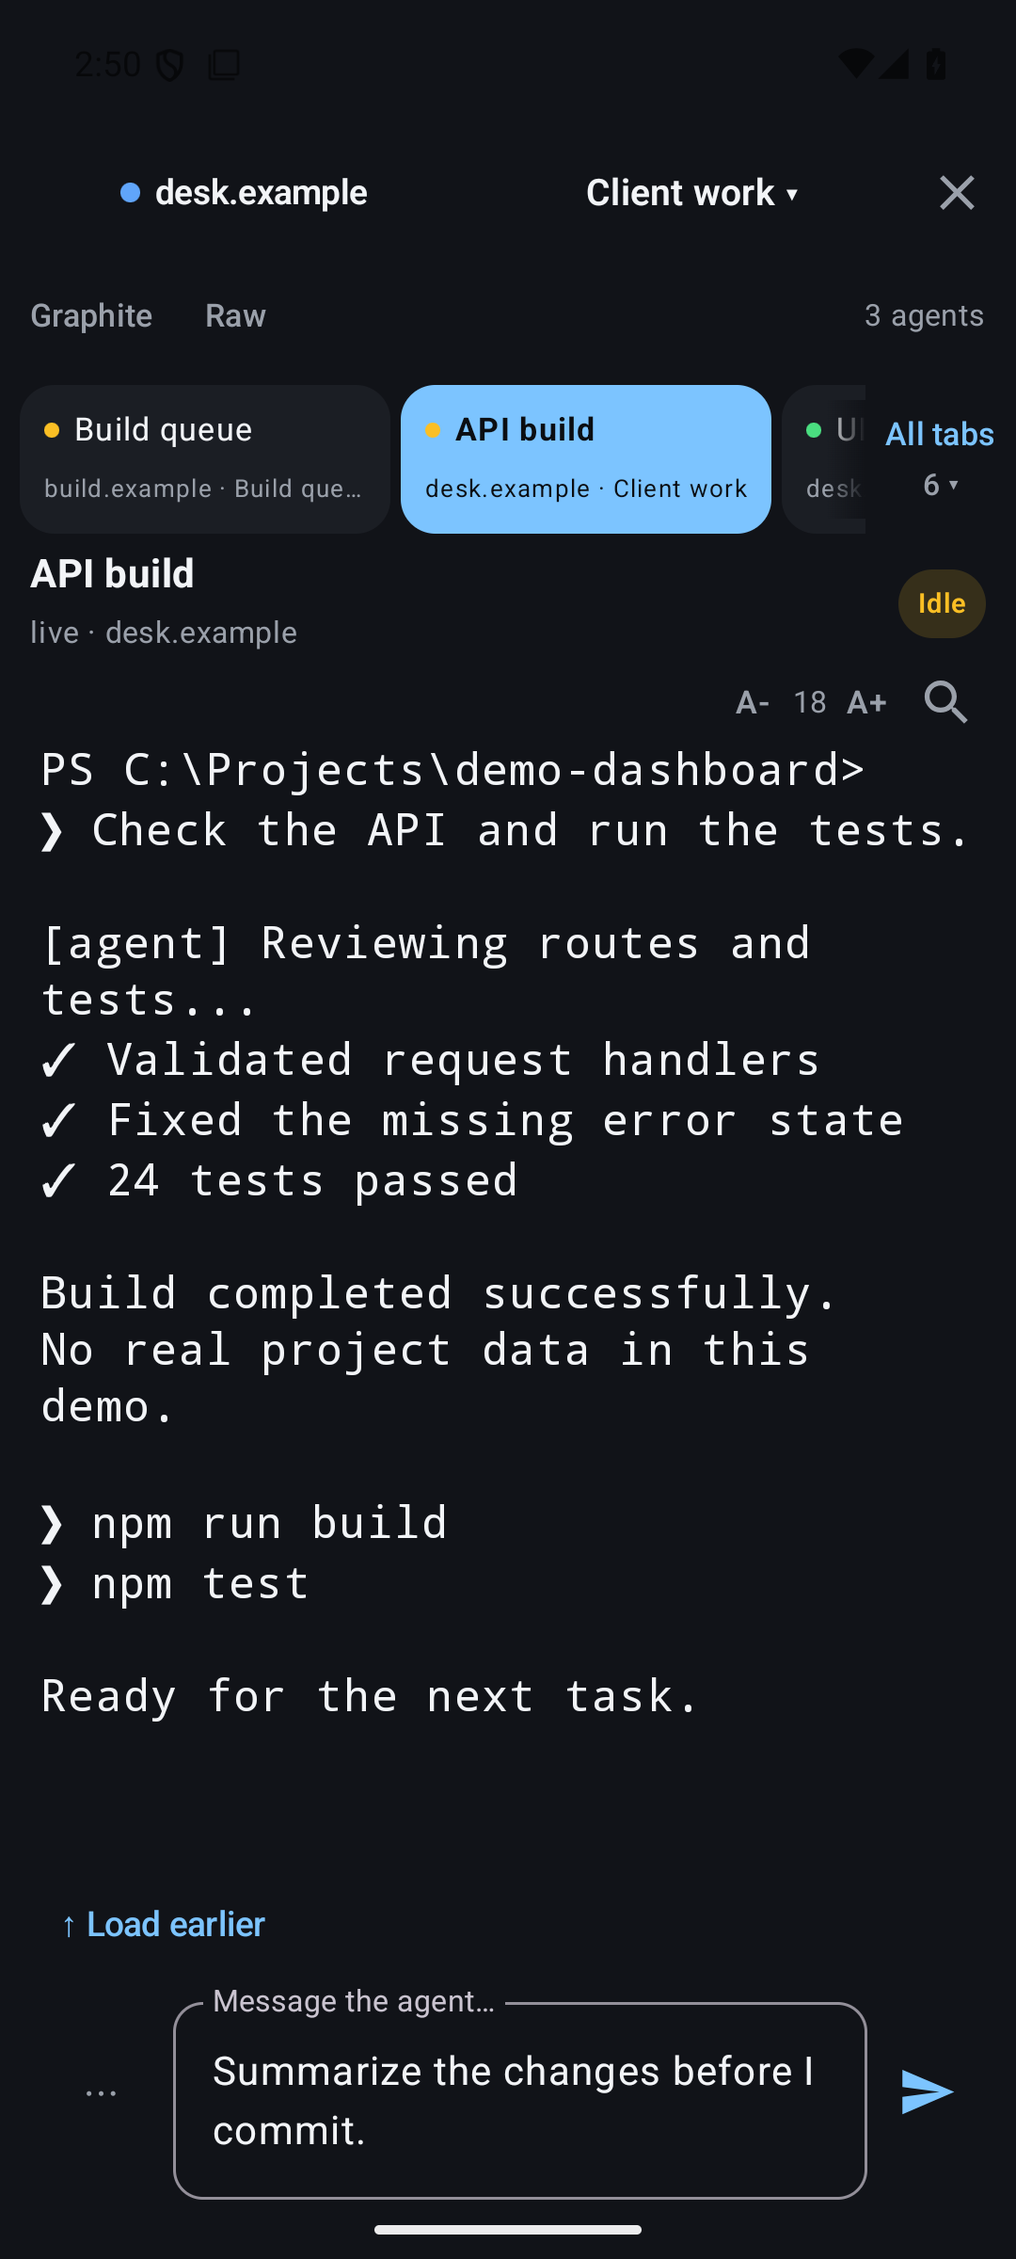
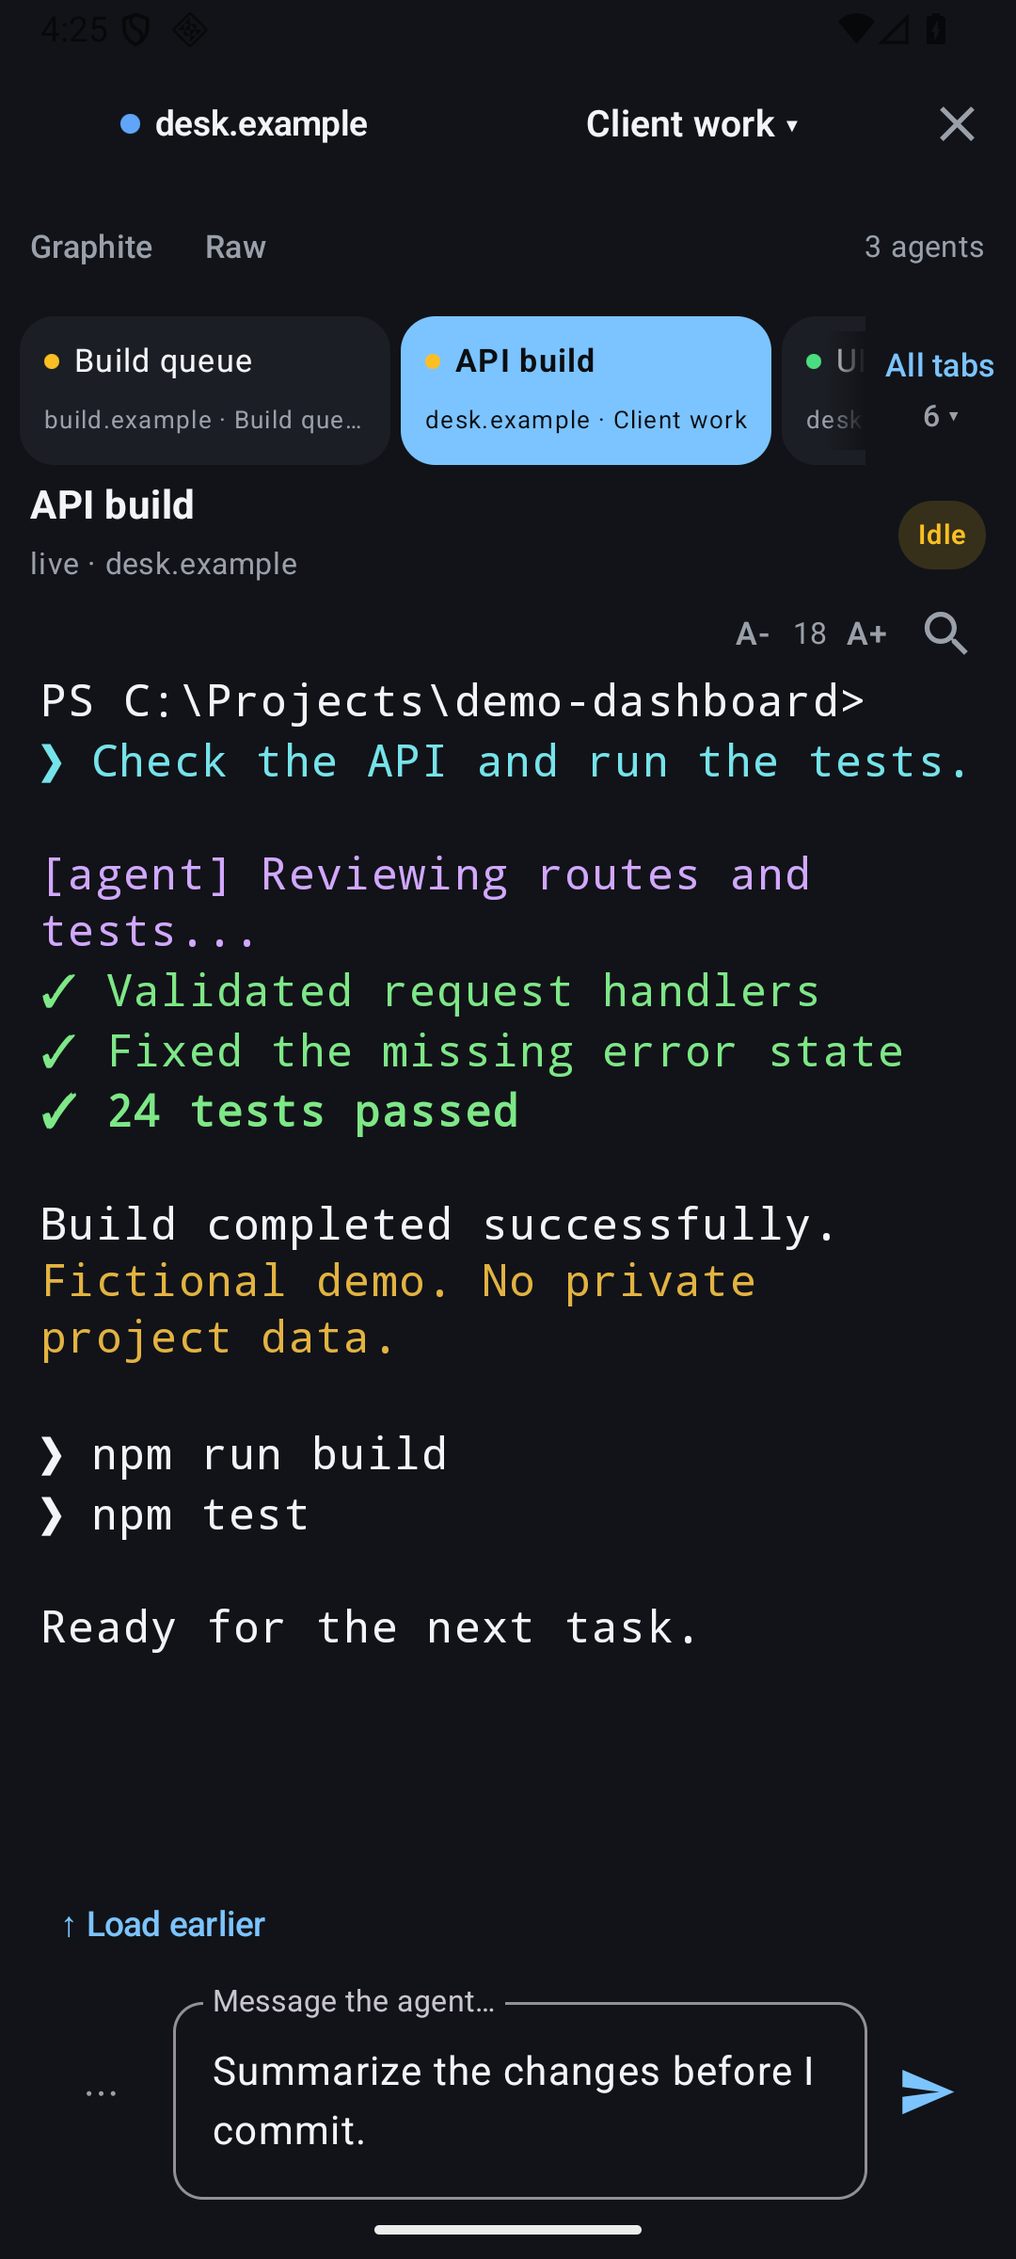
Refresh v0.2.2 README, color screenshots, and phone-width guide

diff --git a/app/src/androidTest/java/io/github/razvanmanolache/herdronthego/ScreenshotTest.kt b/app/src/androidTest/java/io/github/razvanmanolache/herdronthego/ScreenshotTest.kt
@@ -8,12 +8,17 @@ import androidx.compose.material3.MaterialTheme
 import androidx.compose.material3.Surface
 import androidx.compose.ui.Modifier
 import androidx.compose.ui.graphics.Color
+import androidx.compose.ui.test.junit4.createEmptyComposeRule
+import androidx.compose.ui.test.onNodeWithText
+import androidx.compose.ui.test.performClick
+import androidx.compose.ui.test.assertIsDisplayed
 import androidx.lifecycle.ViewModelProvider
 import androidx.test.core.app.ActivityScenario
 import androidx.test.ext.junit.runners.AndroidJUnit4
 import androidx.test.platform.app.InstrumentationRegistry
 import org.junit.Assert.assertTrue
 import org.junit.Test
+import org.junit.Rule
 import org.junit.runner.RunWith
 import java.io.File
 import java.io.FileOutputStream
@@ -23,6 +28,7 @@ import java.io.FileOutputStream
  */
 @RunWith(AndroidJUnit4::class)
 class ScreenshotTest {
+    @get:Rule val compose = createEmptyComposeRule()
     private val instrument = InstrumentationRegistry.getInstrumentation()
     private val pins = object : KnownHostsStore {
         override fun get(port: Int, host: String): String? = null
@@ -54,21 +60,21 @@ class ScreenshotTest {
                 "$host-space", panes.first().tabId, panes.first().paneId)
             srv.paneText[panes.first().paneId] = """
                 PS C:\Projects\demo-dashboard>
-                ❯ Check the API and run the tests.
+                \u001B[36m❯ Check the API and run the tests.\u001B[0m
 
-                [agent] Reviewing routes and tests...
-                ✓ Validated request handlers
-                ✓ Fixed the missing error state
-                ✓ 24 tests passed
+                \u001B[35m[agent] Reviewing routes and tests...\u001B[0m
+                \u001B[32m✓ Validated request handlers\u001B[0m
+                \u001B[32m✓ Fixed the missing error state\u001B[0m
+                \u001B[1;32m✓ 24 tests passed\u001B[0m
 
                 Build completed successfully.
-                No real project data in this demo.
+                \u001B[33mFictional demo. No private project data.\u001B[0m
 
                 ❯ npm run build
                 ❯ npm test
 
                 Ready for the next task.
-            """.trimIndent()
+            """.trimIndent().replace("\\u001B", "\u001B")
             c.servers[conn.key] = srv
             c.recordSummary(srv)
         }
@@ -87,7 +93,7 @@ class ScreenshotTest {
                 c.activeKey = desk.conn.key
                 c.setDraft(CommandTarget(desk.conn.key, desk.currentSession, desk.currentPaneId!!), "Summarize the changes before I commit.")
             }
-            for (mode in listOf("connections", "sessions", "terminal", "font-size", "computers", "jump", "search", "pair-request", "pair-code")) {
+            for (mode in listOf("connections", "sessions", "terminal", "font-size", "computers", "jump", "search", "pair-request", "pair-code", "fit-menu")) {
                 scenario.onActivity { activity ->
                     c.setTheme(if (mode == "search") "sand" else "graphite")
                     c.setFont(if (mode == "font-size") 18f else 14f)
@@ -98,7 +104,7 @@ class ScreenshotTest {
                                     when (mode) {
                                         "connections" -> ConnectionsScreen(c)
                                         "sessions" -> SessionsScreen(c)
-                                        "terminal", "font-size" -> AgentScreen(c)
+                                        "terminal", "font-size", "fit-menu" -> AgentScreen(c)
                                         "computers" -> { AgentScreen(c); ServersDialog(c) {} }
                                         "jump" -> { AgentScreen(c); JumpDialog(c) {} }
                                         "pair-request" -> PairScreen(c, "herdr-pair://desk.example:7443?fingerprint=${"a".repeat(64)}")
@@ -116,6 +122,12 @@ class ScreenshotTest {
                     }
                 }
                 instrument.waitForIdleSync()
+                compose.waitForIdle()
+                if (mode == "fit-menu") {
+                    compose.onNodeWithText("⋯").performClick()
+                    compose.waitForIdle()
+                    compose.onNodeWithText("Message options").assertIsDisplayed()
+                }
                 Thread.sleep(2000) // Allow software-rendered emulator frames and dialog animations to settle.
                 val bitmap = instrument.uiAutomation.takeScreenshot()
                 val folder = File(instrument.targetContext.cacheDir, "public-screenshots").also { it.mkdirs() }

diff --git a/README.md b/README.md
@@ -7,7 +7,7 @@ same time**, and my everyday machines run **Windows**. I wanted to check what my
 agents were doing, move between projects, and send the next instruction from my
 Android phone without constantly returning to the desk.
 
-That turned into two projects: a [Windows SSH bridge](https://github.com/RazvanManolache/herdr-bridge)
+That turned into two projects: a [Windows bridge](https://github.com/RazvanManolache/herdr-bridge)
 and this native Android companion. A small personal need has a habit of becoming
 another repository. Here we are.
 
@@ -25,13 +25,10 @@ the most useful upgrade is a bigger font. Squinting is not a productivity featur
 [Build and setup guide](docs/BUILD.md) ·
 [License](LICENSE)
 
-Version **0.2.1** adds persistent paired connections, device pairing, and the
-navigation improvements described below. Install it over 0.1.1 or the 0.2.0
-preview to keep your saved connections. [Pair without a Windows login](docs/PAIRING.md).
-
-Version **0.2.2** adds the phone-width fit lifecycle: unfocused tabs and
-computers restore at once, the viewed tab heartbeats, and the bridge reaps
-unheard fits after five minutes. Install it over 0.2.1 to keep everything.
+Version **0.2.2** adds readable terminal colors, a new app icon, and a way to
+fit the agent's output to your phone. Switching tabs or computers restores the
+desktop layout, as does leaving the app. Install over 0.2.1 to keep your saved
+connections and pairings. [Pair without a Windows login](docs/PAIRING.md).
 
 This is an **unofficial, independent companion for [Herdr](https://herdr.dev/)**,
 not an official Herdr Android release. The app's display name is **Herdr on the Go**.
@@ -40,7 +37,7 @@ not an official Herdr Android release. The app's display name is **Herdr on the 
 
 | Your computers | Terminal and messages | Bigger fonts, happier eyes |
 |:---:|:---:|:---:|
-| <img src="docs/images/screenshots/connections.png" width="240" alt="Herdr on the Go connection list with three fictional computers"> | <img src="docs/images/screenshots/terminal.png" width="240" alt="Agent terminal with task output, separate draft, and font controls"> | <img src="docs/images/screenshots/font-size.png" width="240" alt="The same terminal using a larger 18 sp font"> |
+| <img src="docs/images/screenshots/connections.png" width="240" alt="Herdr on the Go connection list with three fictional computers"> | <img src="docs/images/screenshots/terminal.png" width="240" alt="Colored agent terminal output, separate draft, and font controls"> | <img src="docs/images/screenshots/font-size.png" width="240" alt="The same terminal using a larger 18 sp font"> |
 
 | Named sessions | Jump across computers | Search and a lighter theme |
 |:---:|:---:|:---:|
@@ -76,17 +73,22 @@ to my private machines. [Screenshot provenance and reproduction](docs/images/scr
   the terminal font from **10 to 24 sp** with A− / A+.
   Agent colors render like on the desktop, in light- and dark-safe palettes.
 - **Fit the pane to the phone.** Opening a chat narrows that pane to the
-  phone’s column width so the agent rewraps instead of running off the
-  edge; the spare half of the tab explains why. Switching to another tab
-  or computer restores the unfocused one at once, as does leaving the app.
-  Toggle in the ⋯ message menu. The notice panel ignores keystrokes, the
-  viewed tab sends a heartbeat, and the bridge releases fits unheard from
-  for five minutes, so a killed app leaves its panel behind only briefly.
+  phone's width so terminal applications can rewrap their output. A notice
+  beside it explains the temporary desktop layout. Switch tabs or computers,
+  leave the app, or turn **Fit width** off to restore it. If the app stops
+  unexpectedly, bridge **0.3.2** restores abandoned fits after about five
+  minutes. [Phone-width setup and controls](docs/PHONE_WIDTH.md).
 - **Get completion notifications.** A tap can reopen the original computer,
   named session, and pane while the app process remains available.
 - **Handle interrupted replies carefully.** An unknown command outcome keeps its
   original request identity across reconnects and restarts instead of blindly
   submitting a fresh command.
+
+The **⋯** menu beside the message box contains **Fit width**, file attachment,
+and commands. Fitting is enabled by default and works on tabs with one pane;
+existing desktop splits are preserved.
+
+<img src="docs/images/screenshots/fit-menu.png" width="280" alt="Message options showing the Fit width toggle, file attachment, and commands with fictional terminal data behind it">
 
 **What “multiple” means today:** several computers can be connected concurrently,
 with one selected Herdr session per SSH identity (host + port + username).

diff --git a/docs/releases/v0.2.2.md b/docs/releases/v0.2.2.md
@@ -1,6 +1,7 @@
-# 0.2.2 phone-width fit lifecycle
+# 0.2.2 colors, icon, and phone-width fitting
 
-Checked 2026-10-14. Version code 11, same application ID as 0.2.1.
+Checked 2026-10-14. Version code 11, same application ID and release signing
+certificate as 0.2.1. Saved connections and pairings are retained on update.
 Release: [v0.2.2](https://github.com/RazvanManolache/herdr-on-the-go/releases/tag/v0.2.2).
 
 Switching tabs or computers releases the unfocused tab's split before the
@@ -13,13 +14,22 @@ fits unheard from for five minutes and resolves tabs from the live
 layout, and its attach sweep also closes unrecorded notice panels while
 keeping one pane per tab.
 
+Terminal output now renders ANSI colors and styling in palettes adapted for
+light and dark themes; search uses the visible text. The adaptive app icon also
+provides a themed monochrome variant. See [phone-width controls and bridge upgrade instructions](../PHONE_WIDTH.md).
+
 | Check | Result |
 | --- | --- |
 | Android unit tests | 43 passed. |
-| Bridge regression tests | 58 passed, including heartbeat refresh, stale-only reap, live-first tab resolution, and unrecorded-panel healing with lone-pane protection. |
-| Screenshot fixture | Renders all nine documentation captures with fictional data; run passed. |
-| Live drills | Heartbeat timestamp advanced on-device; a planted stale record and its panel were reaped within one poller cycle; tab switch on the emulator stub rig released the old split before fitting the new with no churn loop; backgrounding there delivered the unfit within seconds. Killed-app reap uses the same code path as the planted-stale drill. |
-| Builds | Debug and test APKs assembled. The signed release APK and SHA256SUMS still need the private release key, which was not present in this session. |
+| Bridge regression tests | 85 passed: 58 core regressions and 27 pairing/TLS checks, including heartbeat refresh, stale-only reap, live-first tab resolution, unrecorded-panel healing with lone-pane protection, and an authenticated 65-second idle TLS stream. |
+| Screenshot fixture and tab picker | Ten fictional-data captures passed and were visually inspected; two tab-picker Compose tests passed. |
+| Paired Android integration | Two tests passed with a real disposable Herdr session: approval, wrong-pin rejection, encrypted storage, rotation, command/readback, a 70-second idle connection, automatic recovery with the same pane/draft, manual disconnect, and revocation. |
+| Android/Windows SSH integration | Eight tests passed, including cross-computer/space navigation, lost-reply recovery with the same command key, and transport cleanup. |
+| Earlier implementation drills | The previous implementation checkpoint reported an advancing on-device fit heartbeat, cleanup of a planted stale record/panel, tab-switch release without churn, and background unfit delivery. These drills were not repeated for the documentation refresh. |
+| Builds | Debug, Android-test, and signed release APKs assembled. Release certificate and version 0.2.2 / code 11 verified. |
+| Lint | Zero errors; four warnings covering the existing custom certificate pinning and adaptive-icon resource configuration. |
 
-All fixture credentials were synthetic. Scratch Herdr tabs used for drilling
-were closed; the work PC's own tabs and splits were left untouched.
+All fixture credentials were synthetic. Scratch Herdr tabs used for the earlier
+drills were closed; the work PC's own tabs and splits were left untouched.
+Current integration checks use only disposable sessions and an explicitly
+selected emulator. Background operation remains subject to Android's limits.

diff --git a/docs/PHONE_WIDTH.md b/docs/PHONE_WIDTH.md
@@ -1,0 +1,49 @@
+# Make terminal output fit your phone
+
+Herdr on the Go **0.2.2** can temporarily narrow the desktop terminal pane to
+your phone's width. Terminal applications that respond to a resize can rewrap
+their output, making long lines easier to read without shrinking the font.
+
+## Use it
+
+1. Install the app and Windows bridge **0.3.2** from the
+   [v0.2.2 release](https://github.com/RazvanManolache/herdr-on-the-go/releases/tag/v0.2.2).
+2. Open a chat in a Herdr tab containing one pane. **Fit width** is enabled by
+   default. The app measures the width using the current font size.
+3. On the PC, a temporary notice pane appears beside the agent's pane. It
+   explains that a phone is viewing the tab and ignores keyboard input.
+4. Use **A− / A+** as usual; the fitting width adjusts after the font changes.
+5. Open **⋯** beside the message box and tap **Fit width: on** to turn it off.
+   Tap again to enable it. The preference is saved on the phone.
+
+<img src="images/screenshots/fit-menu.png" width="280" alt="Fictional demonstration of the Fit width toggle in Message options">
+
+Switching tabs or computers, disconnecting, or leaving the app releases the
+old fit. Only the pane created by the bridge is closed; existing desktop splits
+are preserved and tabs with multiple panes are not fitted.
+
+The visible fitted tab sends a heartbeat every minute. If the phone app stops
+unexpectedly, the bridge's snapshot poller cleans up its recorded abandoned fit
+after about five minutes. The next attach also checks for leftover notice panes.
+Cleanup depends on the bridge poller running and the Herdr session being reachable.
+
+## Update the PC bridge
+
+Use the existing [SSH installation guide](https://github.com/RazvanManolache/herdr-bridge#updates-backups-and-removal)
+or [paired installation guide](https://github.com/RazvanManolache/herdr-bridge/blob/main/docs/PAIRING.md)
+for your connection type. Reconnect the app so its responder loads the new code.
+Pairings and saved connections are retained.
+
+The paired installer reuses an already-running snapshot poller. To activate the
+new abandoned-fit cleanup after a paired upgrade, sign out of Windows and back
+in when convenient, or restart only this installation's `snapshot-poller.py`
+process following the bridge guide. A currently running older poller does not
+load the new cleanup code automatically. Updating the app alone does not install
+new bridge code on the PC.
+
+## Terminal colors
+
+The app now renders the terminal's color and style information, with palettes
+adapted for light and dark themes. Searching and copying operate on readable
+text without escape sequences. The public screenshots contain only invented
+output and credentials.

diff --git a/docs/images/screenshots/README.md b/docs/images/screenshots/README.md
@@ -5,6 +5,10 @@ rendered by `ScreenshotTest.capturePublicDocumentation`. The fixture uses an
 isolated test application and entirely fictional state. It makes no SSH
 connections and never reads saved user credentials or real terminal output.
 
+Refreshed for **0.2.2** on 2026-10-14. Colored terminal output uses synthetic
+ANSI styles rendered by the app's normal parser. The fitting screenshot opens
+the real **⋯** menu; it does not create a live desktop split or pairing grant.
+
 Hosts use reserved `.example` names. The username `demo`, project path
 `C:\Projects\demo-dashboard`, named sessions, statuses, and terminal messages
 are invented. The apparent “24 tests passed” is sample terminal text, not test
@@ -14,13 +18,14 @@ evidence. Actual regression evidence is described in the repository review.
 | --- | --- |
 | `connections.png` | Three saved demo computers. |
 | `sessions.png` | Reachable named sessions. |
-| `terminal.png` | Terminal output, scoped draft, and 14 sp font. |
+| `terminal.png` | Colored terminal output, scoped draft, and 14 sp font. |
 | `font-size.png` | The same view at 18 sp, using the font controls. |
 | `computers.png` | Connected-computer switcher. |
 | `jump.png` | Searchable tab picker grouped by computer and space. |
 | `search.png` | Search controls in the Sand theme. |
 | `pair-request.png` | QR/paste pairing setup with a fictional PC address and fingerprint. |
 | `pair-code.png` | Waiting for approval; `123456` is an invented code, not a live grant. |
+| `fit-menu.png` | Message options, including the real **Fit width** toggle. |
 
 To reproduce, build and install the debug and Android-test APKs on an explicit
 emulator, then run:

diff --git a/docs/BUILD.md b/docs/BUILD.md
@@ -4,7 +4,7 @@ Native Android client for [herdr-bridge](https://github.com/RazvanManolache/herd
 on Windows, over SSH or paired TLS. Kotlin, Jetpack Compose, and Material 3.
 No vendor account is required. [Pairing setup](PAIRING.md).
 
-Package: `io.github.razvanmanolache.herdronthego` · version **0.2.1** (code 5) · Android 8.0+
+Package: `io.github.razvanmanolache.herdronthego` · version **0.2.2** (code 11) · Android 8.0+
 (minSdk 26; compile/target SDK 35).
 
 ## Features
@@ -14,6 +14,11 @@ Package: `io.github.razvanmanolache.herdronthego` · version **0.2.1** (code 5) 
 - Session selection, a global tab strip and searchable **All tabs** picker across
   computers and spaces, terminal search, selectable text,
   font size (10–24 sp), themes, and commands extracted from terminal output.
+- Terminal colors and styles adapted for light/dark themes, plus an adaptive
+  launcher icon with themed-icon support.
+- Optional phone-width fitting for single-pane tabs, restored when you leave
+  that tab or the app. Requires Windows bridge **0.3.2** for heartbeat/cleanup.
+  [Setup, toggle, and upgrade instructions](PHONE_WIDTH.md).
 - Automatic refresh: visible terminal output about every two seconds; snapshots
   and agent status about every 15 seconds while the process is running.
 - Text-file insertion into the current draft, with bounded UTF-8 decoding on a

diff --git a/CHANGELOG.md b/CHANGELOG.md
@@ -2,13 +2,20 @@
 
 ## 0.2.2 — 2026-10-14
 
+- Terminal colors and text styling render in readable light/dark palettes;
+  search and command extraction use the visible text.
+- New adaptive launcher icon, including a monochrome themed-icon variant.
+- **Fit width** in the message options menu temporarily fits a single-pane
+  Herdr tab to the phone, including adjustments when the font size changes.
+
 - Switching tabs or computers releases the unfocused tab's phone-width
   split at once; fit transitions are generation-guarded and run on a lane
   the status polls cannot starve, so backgrounding reliably says goodbye.
 - The viewed tab heartbeats every minute (`pane.fitTouch`); the Windows
   bridge (0.3.2) reaps fits unheard from for five minutes and resolves
   tabs from the live layout, so a killed app leaves its panel only briefly.
-- Refreshed documentation screenshots from the fictional-data fixture.
+- Refreshed ten documentation screenshots with fictional data, including
+  colored output and the **Fit width** control.
 
 ## 0.2.1 — 2026-10-13
 
